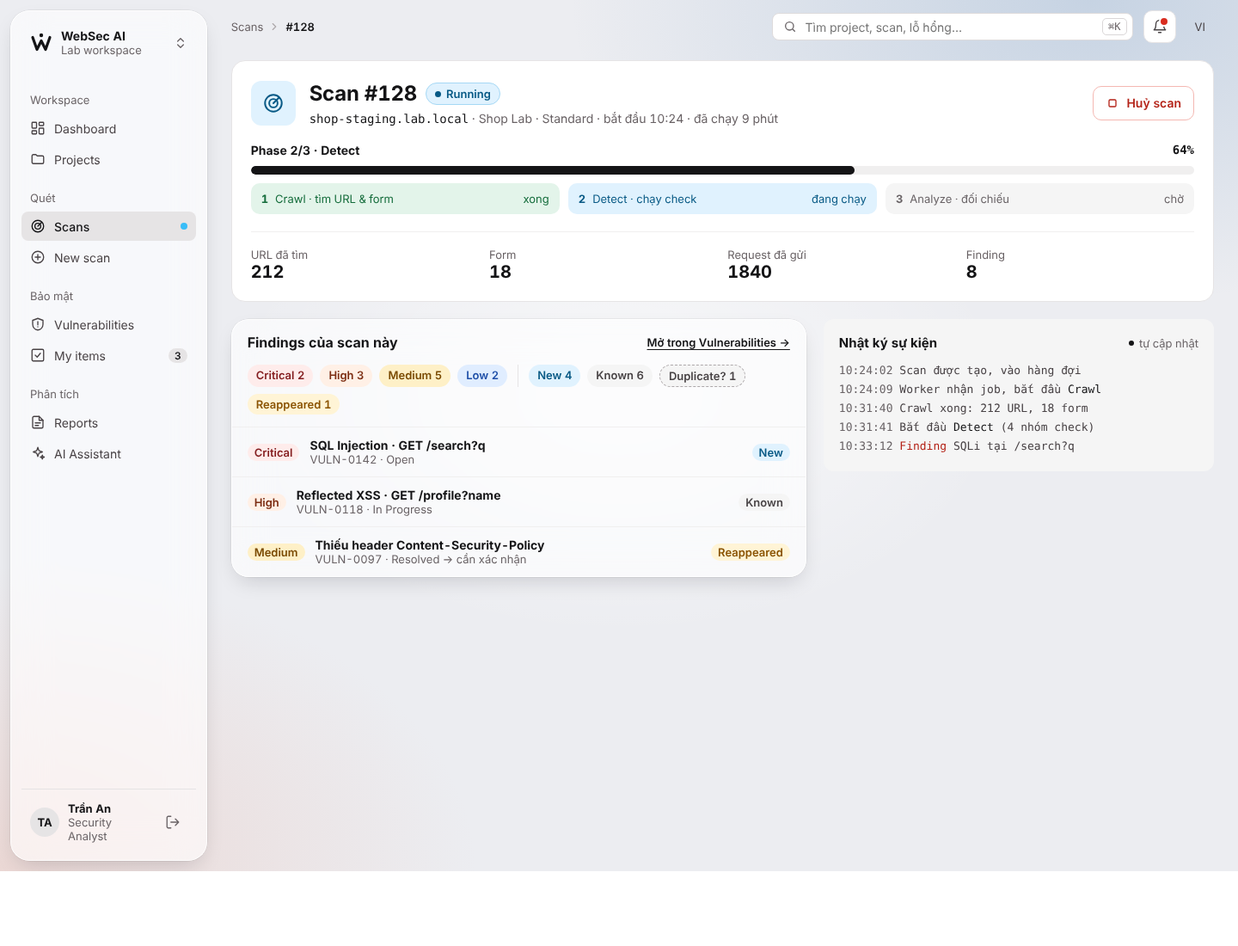
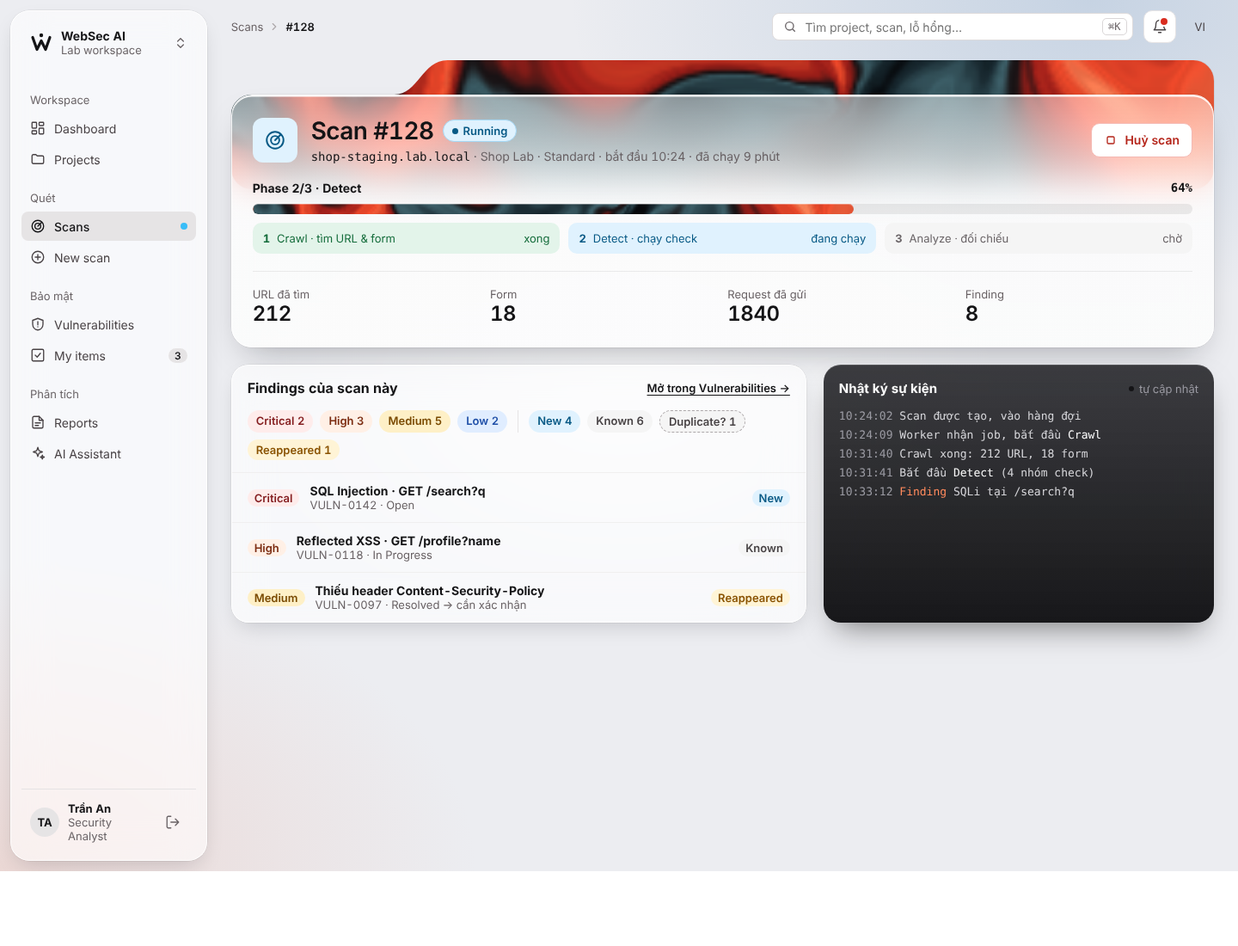
design: Project detail và Scan detail dùng hero thư mục kính với ảnh ember
- Phần đầu W04, W07: tai thư mục + ảnh ember phía sau, mặt kính chứa thông tin.
- W07: thanh tiến độ dùng ảnh ember, nhật ký sự kiện thành kính khói tối.

Claude-Session: https://claude.ai/code/session_01LwojaGAzL5sjq8DHbyiojU

Changed region(s): [[0.1875, 0.0618, 1.0, 0.68]]

diff --git a/design/source/W07-Scan-Detail.dc.html b/design/source/W07-Scan-Detail.dc.html
@@ -44,11 +44,11 @@ body{font-variant-numeric:tabular-nums}
 
 <main style="flex: 1; box-sizing: border-box; margin: 0; background: transparent; padding: 20px 28px 32px; display: flex; flex-direction: column; gap: 20px">
 
-<section style="background: #FFFFFF; border: 1px solid #E6E4E5; border-radius: 16px; padding: 22px; display: flex; flex-direction: column; gap: 20px">
+<div style="position: relative; padding-top: 40px"><div aria-hidden="true" style="position: absolute; left: 0; right: 0; top: 0; height: 150px; border-radius: 24px; overflow: hidden; clip-path: path('M0 64A24 24 0 0 1 24 40L190 40C218 40 222 0 252 0L1400 0L1400 150L0 150Z'); box-shadow: 0 0 0 0.5px rgba(0, 0, 0, 0.1)"><img src="art/ember-41.png" alt="" style="width: 100%; height: 100%; object-fit: cover; display: block"></div><section aria-label="Scan #128" style="position: relative; background: linear-gradient(180deg, rgba(255, 255, 255, 0.5) 0%, rgba(252, 252, 252, 0.9) 45%); -webkit-backdrop-filter: blur(22px) saturate(1.5); backdrop-filter: blur(22px) saturate(1.5); border: 1px solid rgba(255, 255, 255, 0.85); box-shadow: inset 0 1.5px 0 rgba(255, 255, 255, 0.95), 0 0 0 0.5px rgba(0, 0, 0, 0.1), 0 18px 40px -18px rgba(10, 12, 20, 0.35); border-radius: 24px; padding: 24px; display: flex; flex-direction: column; gap: 20px">
 <div style="display: flex; flex-wrap: wrap; align-items: center; gap: 16px">
 <span style="flex: none; width: 52px; height: 52px; border-radius: 12px; background: {{ toneBg }}; color: {{ toneFg }}; display: flex; align-items: center; justify-content: center"><svg aria-hidden="true" width="26" height="26" viewBox="0 0 24 24" fill="none" stroke="currentColor" stroke-width="1.8" stroke-linecap="round" stroke-linejoin="round"><circle cx="12" cy="12" r="9"/><circle cx="12" cy="12" r="4.5"/><path d="M12 12l6-6"/></svg></span>
 <div style="flex: 1 1 300px; min-width: 0; display: flex; flex-direction: column; gap: 4px">
-<div style="display: flex; flex-wrap: wrap; align-items: center; gap: 10px"><h1 style="margin: 0; font-size: 24px; line-height: 32px; letter-spacing: -0.01em">Scan #128</h1><span style="display: inline-flex; align-items: center; gap: 6px; font-size: 13px; font-weight: 600; padding: 4px 10px; background: {{ toneBg }}; color: {{ toneFg }}; border: 1px solid {{ toneBd }}; border-radius: 999px"><span style="width: 7px; height: 7px; border-radius: 4px; background: {{ toneFg }}"></span>{{ statusLabel }}</span></div>
+<div style="display: flex; flex-wrap: wrap; align-items: center; gap: 10px"><h1 style="margin: 0; font-size: 28px; line-height: 34px; font-weight: 600; letter-spacing: -0.02em">Scan #128</h1><span style="display: inline-flex; align-items: center; gap: 6px; font-size: 13px; font-weight: 600; padding: 4px 10px; background: {{ toneBg }}; color: {{ toneFg }}; border: 1px solid {{ toneBd }}; border-radius: 999px"><span style="width: 7px; height: 7px; border-radius: 4px; background: {{ toneFg }}"></span>{{ statusLabel }}</span></div>
 <span style="font-size: 14px; color: #686164"><span style="font-family: ui-monospace, 'SF Mono', SFMono-Regular, Menlo, Consolas, monospace; color: #141416">shop-staging.lab.local</span> · Shop Lab · Standard · {{ timeLine }}</span>
 </div>
 <div style="display: flex; flex-wrap: wrap; gap: 8px">
@@ -60,7 +60,7 @@ body{font-variant-numeric:tabular-nums}
 
 <div style="display: flex; flex-direction: column; gap: 10px">
 <div style="display: flex; justify-content: space-between; font-size: 14px"><b>{{ phaseLabel }}</b><span style="font-family: ui-monospace, 'SF Mono', SFMono-Regular, Menlo, Consolas, monospace; font-weight: 600">{{ progress }}</span></div>
-<div role="progressbar" aria-label="Tiến độ scan" aria-valuenow="{{ progressNum }}" aria-valuemin="0" aria-valuemax="100" style="height: 10px; background: #F0EFEF; border-radius: 5px; overflow: hidden"><div style="height: 10px; width: {{ progress }}; background: {{ barColor }}; border-radius: 5px"></div></div>
+<div role="progressbar" aria-label="Tiến độ scan" aria-valuenow="{{ progressNum }}" aria-valuemin="0" aria-valuemax="100" style="height: 12px; background: rgba(20, 20, 22, 0.08); border-radius: 6px; overflow: hidden"><div style="height: 12px; width: {{ progress }}; background: {{ barColor }}; border-radius: 6px; box-shadow: inset 0 1px 0 rgba(255, 255, 255, 0.35)"></div></div>
 <ol style="margin: 0; padding: 0; list-style: none; display: grid; grid-template-columns: repeat(3, minmax(0, 1fr)); gap: 10px; font-size: 13px">
 <li style="display: flex; align-items: center; gap: 8px; padding: 10px 12px; background: {{ p1.bg }}; color: {{ p1.fg }}; border-radius: 10px"><b>1</b> Crawl · tìm URL &amp; form <span style="margin-left: auto; font-size: 13px">{{ p1.note }}</span></li>
 <li style="display: flex; align-items: center; gap: 8px; padding: 10px 12px; background: {{ p2.bg }}; color: {{ p2.fg }}; border-radius: 10px"><b>2</b> Detect · chạy check <span style="margin-left: auto; font-size: 13px">{{ p2.note }}</span></li>
@@ -68,13 +68,14 @@ body{font-variant-numeric:tabular-nums}
 </ol>
 </div>
 
-<div style="display: grid; grid-template-columns: repeat(auto-fit, minmax(160px, 1fr)); gap: 12px; padding-top: 18px; border-top: 1px solid #F0EFEF">
-<div style="display: flex; align-items: center; gap: 12px"><span style="display: flex; flex-direction: column"><span style="font-size: 13px; color: #686164">URL đã tìm</span><b style="font-size: 20px">{{ urls }}</b></span></div>
-<div style="display: flex; align-items: center; gap: 12px"><span style="display: flex; flex-direction: column"><span style="font-size: 13px; color: #686164">Form</span><b style="font-size: 20px">{{ forms }}</b></span></div>
-<div style="display: flex; align-items: center; gap: 12px"><span style="display: flex; flex-direction: column"><span style="font-size: 13px; color: #686164">Request đã gửi</span><b style="font-size: 20px">{{ reqs }}</b></span></div>
-<div style="display: flex; align-items: center; gap: 12px"><span style="display: flex; flex-direction: column"><span style="font-size: 13px; color: #686164">Finding</span><b style="font-size: 20px">{{ findings }}</b></span></div>
+<div style="display: grid; grid-template-columns: repeat(auto-fit, minmax(160px, 1fr)); gap: 12px; padding-top: 18px; border-top: 1px solid rgba(20, 20, 22, 0.08)">
+<div style="display: flex; align-items: center; gap: 12px"><span style="display: flex; flex-direction: column"><span style="font-size: 13px; color: #686164">URL đã tìm</span><b style="font-size: 24px; font-weight: 600; letter-spacing: -0.02em">{{ urls }}</b></span></div>
+<div style="display: flex; align-items: center; gap: 12px"><span style="display: flex; flex-direction: column"><span style="font-size: 13px; color: #686164">Form</span><b style="font-size: 24px; font-weight: 600; letter-spacing: -0.02em">{{ forms }}</b></span></div>
+<div style="display: flex; align-items: center; gap: 12px"><span style="display: flex; flex-direction: column"><span style="font-size: 13px; color: #686164">Request đã gửi</span><b style="font-size: 24px; font-weight: 600; letter-spacing: -0.02em">{{ reqs }}</b></span></div>
+<div style="display: flex; align-items: center; gap: 12px"><span style="display: flex; flex-direction: column"><span style="font-size: 13px; color: #686164">Finding</span><b style="font-size: 24px; font-weight: 600; letter-spacing: -0.02em">{{ findings }}</b></span></div>
 </div>
 </section>
+</div>
 
 <sc-if value="{{ isQueued }}" hint-placeholder-val="{{ false }}">
 <div style="display: flex; align-items: center; gap: 14px; padding: 18px; background: #FFFFFF; border: 1px dashed #A5D8F5; border-radius: 12px; font-size: 14px; line-height: 21px"><span style="flex: none; width: 40px; height: 40px; border-radius: 20px; background: #E0F2FE; color: #075985; display: flex; align-items: center; justify-content: center"><svg aria-hidden="true" width="20" height="20" viewBox="0 0 24 24" fill="none" stroke="currentColor" stroke-width="1.8" stroke-linecap="round"><circle cx="12" cy="12" r="9"/><path d="M12 7v5l3 2"/></svg></span><span><b>Đang chờ worker.</b> Vị trí 1 trong hàng đợi. Trang tự cập nhật mỗi 5 giây; bạn có thể rời trang, scan vẫn chạy.</span></div>
@@ -111,14 +112,14 @@ body{font-variant-numeric:tabular-nums}
 </section>
 </sc-if>
 
-<section aria-label="Sự kiện" style="flex: 2 1 320px; min-width: 0; background: #F5F5F5; color: #484245; border-radius: 12px; padding: 18px; display: flex; flex-direction: column; gap: 12px">
-<div style="display: flex; justify-content: space-between; align-items: center"><h2 style="margin: 0; font-size: 15px; color: #141416">Nhật ký sự kiện</h2><span style="display: inline-flex; align-items: center; gap: 6px; font-size: 13px; color: #696366"><span style="width: 6px; height: 6px; border-radius: 3px; background: #141416"></span>tự cập nhật</span></div>
+<section aria-label="Sự kiện" style="flex: 2 1 320px; min-width: 0; align-self: stretch; background: linear-gradient(180deg, rgba(30, 30, 34, 0.86) 0%, rgba(10, 10, 12, 0.94) 100%); -webkit-backdrop-filter: blur(22px) saturate(1.5); backdrop-filter: blur(22px) saturate(1.5); color: #D4D4D8; border-radius: 20px; box-shadow: inset 0 1px 0 rgba(255, 255, 255, 0.14), 0 0 0 0.5px rgba(255, 255, 255, 0.08), 0 18px 36px -14px rgba(0, 0, 0, 0.5); padding: 18px; display: flex; flex-direction: column; gap: 12px">
+<div style="display: flex; justify-content: space-between; align-items: center"><h2 style="margin: 0; font-size: 15px; color: #FAFAFA">Nhật ký sự kiện</h2><span style="display: inline-flex; align-items: center; gap: 6px; font-size: 13px; color: #9A9AA2"><span style="width: 6px; height: 6px; border-radius: 3px; background: #141416"></span>tự cập nhật</span></div>
 <div style="font-family: ui-monospace, 'SF Mono', SFMono-Regular, Menlo, Consolas, monospace; font-size: 13px; line-height: 22px">
-<div><span style="color: #696366">10:24:02</span> Scan được tạo, vào hàng đợi</div>
-<div><span style="color: #696366">10:24:09</span> Worker nhận job, bắt đầu <span style="color: #141416">Crawl</span></div>
-<div><span style="color: #696366">10:31:40</span> Crawl xong: 212 URL, 18 form</div>
-<div><span style="color: #696366">10:31:41</span> Bắt đầu <span style="color: #141416">Detect</span> (4 nhóm check)</div>
-<div><span style="color: #696366">10:33:12</span> <span style="color: #B42318">Finding</span> SQLi tại /search?q</div>
+<div><span style="color: #9A9AA2">10:24:02</span> Scan được tạo, vào hàng đợi</div>
+<div><span style="color: #9A9AA2">10:24:09</span> Worker nhận job, bắt đầu <span style="color: #FAFAFA">Crawl</span></div>
+<div><span style="color: #9A9AA2">10:31:40</span> Crawl xong: 212 URL, 18 form</div>
+<div><span style="color: #9A9AA2">10:31:41</span> Bắt đầu <span style="color: #FAFAFA">Detect</span> (4 nhóm check)</div>
+<div><span style="color: #9A9AA2">10:33:12</span> <span style="color: #FF8A5C">Finding</span> SQLi tại /search?q</div>
 </div>
 </section>
 </div>
@@ -164,7 +165,7 @@ wait: { bg: '#F5F5F5', fg: '#696366', note: 'chờ' }
 }[k]);
 return {
 toneBg: t[0], toneFg: t[1], toneBd: t[2],
-barColor: s === 'failed' ? '#D92D20' : (s === 'cancelled' ? '#98A2B3' : '#141416'),
+barColor: s === 'failed' ? '#D92D20' : (s === 'cancelled' ? '#98A2B3' : 'url(art/ember-41.png) center / cover'),
 p1: phase(data.ph[0]), p2: phase(data.ph[1]), p3: phase(data.ph[2]),
 statusLabel: data.label, phaseLabel: data.phase, progress: data.p + '%', progressNum: data.p, timeLine: data.time,
 urls: data.u, forms: data.f, reqs: data.r, findings: data.n,

diff --git a/design/screens/W07-Scan-Detail.html b/design/screens/W07-Scan-Detail.html
@@ -36,11 +36,11 @@ body{font-variant-numeric:tabular-nums}
 
 <main style="flex: 1; box-sizing: border-box; margin: 0; background: transparent; padding: 20px 28px 32px; display: flex; flex-direction: column; gap: 20px">
 
-<section style="background: #FFFFFF; border: 1px solid #E6E4E5; border-radius: 16px; padding: 22px; display: flex; flex-direction: column; gap: 20px">
+<div style="position: relative; padding-top: 40px"><div aria-hidden="true" style="position: absolute; left: 0; right: 0; top: 0; height: 150px; border-radius: 24px; overflow: hidden; clip-path: path('M0 64A24 24 0 0 1 24 40L190 40C218 40 222 0 252 0L1400 0L1400 150L0 150Z'); box-shadow: 0 0 0 0.5px rgba(0, 0, 0, 0.1)"><img src="art/ember-41.png" alt="" style="width: 100%; height: 100%; object-fit: cover; display: block"></div><section aria-label="Scan #128" style="position: relative; background: linear-gradient(180deg, rgba(255, 255, 255, 0.5) 0%, rgba(252, 252, 252, 0.9) 45%); -webkit-backdrop-filter: blur(22px) saturate(1.5); backdrop-filter: blur(22px) saturate(1.5); border: 1px solid rgba(255, 255, 255, 0.85); box-shadow: inset 0 1.5px 0 rgba(255, 255, 255, 0.95), 0 0 0 0.5px rgba(0, 0, 0, 0.1), 0 18px 40px -18px rgba(10, 12, 20, 0.35); border-radius: 24px; padding: 24px; display: flex; flex-direction: column; gap: 20px">
 <div style="display: flex; flex-wrap: wrap; align-items: center; gap: 16px">
 <span style="flex: none; width: 52px; height: 52px; border-radius: 12px; background: #E0F2FE; color: #075985; display: flex; align-items: center; justify-content: center"><svg aria-hidden="true" width="26" height="26" viewBox="0 0 24 24" fill="none" stroke="currentColor" stroke-width="1.8" stroke-linecap="round" stroke-linejoin="round"><circle cx="12" cy="12" r="9"/><circle cx="12" cy="12" r="4.5"/><path d="M12 12l6-6"/></svg></span>
 <div style="flex: 1 1 300px; min-width: 0; display: flex; flex-direction: column; gap: 4px">
-<div style="display: flex; flex-wrap: wrap; align-items: center; gap: 10px"><h1 style="margin: 0; font-size: 24px; line-height: 32px; letter-spacing: -0.01em">Scan #128</h1><span style="display: inline-flex; align-items: center; gap: 6px; font-size: 13px; font-weight: 600; padding: 4px 10px; background: #E0F2FE; color: #075985; border: 1px solid #A5D8F5; border-radius: 999px"><span style="width: 7px; height: 7px; border-radius: 4px; background: #075985"></span>Running</span></div>
+<div style="display: flex; flex-wrap: wrap; align-items: center; gap: 10px"><h1 style="margin: 0; font-size: 28px; line-height: 34px; font-weight: 600; letter-spacing: -0.02em">Scan #128</h1><span style="display: inline-flex; align-items: center; gap: 6px; font-size: 13px; font-weight: 600; padding: 4px 10px; background: #E0F2FE; color: #075985; border: 1px solid #A5D8F5; border-radius: 999px"><span style="width: 7px; height: 7px; border-radius: 4px; background: #075985"></span>Running</span></div>
 <span style="font-size: 14px; color: #686164"><span style="font-family: ui-monospace, 'SF Mono', SFMono-Regular, Menlo, Consolas, monospace; color: #141416">shop-staging.lab.local</span> · Shop Lab · Standard · bắt đầu 10:24 · đã chạy 9 phút</span>
 </div>
 <div style="display: flex; flex-wrap: wrap; gap: 8px">
@@ -52,7 +52,7 @@ body{font-variant-numeric:tabular-nums}
 
 <div style="display: flex; flex-direction: column; gap: 10px">
 <div style="display: flex; justify-content: space-between; font-size: 14px"><b>Phase 2/3 · Detect</b><span style="font-family: ui-monospace, 'SF Mono', SFMono-Regular, Menlo, Consolas, monospace; font-weight: 600">64%</span></div>
-<div role="progressbar" aria-label="Tiến độ scan" aria-valuenow="64" aria-valuemin="0" aria-valuemax="100" style="height: 10px; background: #F0EFEF; border-radius: 5px; overflow: hidden"><div style="height: 10px; width: 64%; background: #141416; border-radius: 5px"></div></div>
+<div role="progressbar" aria-label="Tiến độ scan" aria-valuenow="64" aria-valuemin="0" aria-valuemax="100" style="height: 12px; background: rgba(20, 20, 22, 0.08); border-radius: 6px; overflow: hidden"><div style="height: 12px; width: 64%; background: url(art/ember-41.png) center / cover; border-radius: 6px; box-shadow: inset 0 1px 0 rgba(255, 255, 255, 0.35)"></div></div>
 <ol style="margin: 0; padding: 0; list-style: none; display: grid; grid-template-columns: repeat(3, minmax(0, 1fr)); gap: 10px; font-size: 13px">
 <li style="display: flex; align-items: center; gap: 8px; padding: 10px 12px; background: #E3F4EA; color: #146C3B; border-radius: 10px"><b>1</b> Crawl · tìm URL &amp; form <span style="margin-left: auto; font-size: 13px">xong</span></li>
 <li style="display: flex; align-items: center; gap: 8px; padding: 10px 12px; background: #E0F2FE; color: #075985; border-radius: 10px"><b>2</b> Detect · chạy check <span style="margin-left: auto; font-size: 13px">đang chạy</span></li>
@@ -60,13 +60,14 @@ body{font-variant-numeric:tabular-nums}
 </ol>
 </div>
 
-<div style="display: grid; grid-template-columns: repeat(auto-fit, minmax(160px, 1fr)); gap: 12px; padding-top: 18px; border-top: 1px solid #F0EFEF">
-<div style="display: flex; align-items: center; gap: 12px"><span style="display: flex; flex-direction: column"><span style="font-size: 13px; color: #686164">URL đã tìm</span><b style="font-size: 20px">212</b></span></div>
-<div style="display: flex; align-items: center; gap: 12px"><span style="display: flex; flex-direction: column"><span style="font-size: 13px; color: #686164">Form</span><b style="font-size: 20px">18</b></span></div>
-<div style="display: flex; align-items: center; gap: 12px"><span style="display: flex; flex-direction: column"><span style="font-size: 13px; color: #686164">Request đã gửi</span><b style="font-size: 20px">1840</b></span></div>
-<div style="display: flex; align-items: center; gap: 12px"><span style="display: flex; flex-direction: column"><span style="font-size: 13px; color: #686164">Finding</span><b style="font-size: 20px">8</b></span></div>
+<div style="display: grid; grid-template-columns: repeat(auto-fit, minmax(160px, 1fr)); gap: 12px; padding-top: 18px; border-top: 1px solid rgba(20, 20, 22, 0.08)">
+<div style="display: flex; align-items: center; gap: 12px"><span style="display: flex; flex-direction: column"><span style="font-size: 13px; color: #686164">URL đã tìm</span><b style="font-size: 24px; font-weight: 600; letter-spacing: -0.02em">212</b></span></div>
+<div style="display: flex; align-items: center; gap: 12px"><span style="display: flex; flex-direction: column"><span style="font-size: 13px; color: #686164">Form</span><b style="font-size: 24px; font-weight: 600; letter-spacing: -0.02em">18</b></span></div>
+<div style="display: flex; align-items: center; gap: 12px"><span style="display: flex; flex-direction: column"><span style="font-size: 13px; color: #686164">Request đã gửi</span><b style="font-size: 24px; font-weight: 600; letter-spacing: -0.02em">1840</b></span></div>
+<div style="display: flex; align-items: center; gap: 12px"><span style="display: flex; flex-direction: column"><span style="font-size: 13px; color: #686164">Finding</span><b style="font-size: 24px; font-weight: 600; letter-spacing: -0.02em">8</b></span></div>
 </div>
 </section>
+</div>
 
 
 
@@ -91,14 +92,14 @@ body{font-variant-numeric:tabular-nums}
 </section>
 
 
-<section aria-label="Sự kiện" style="flex: 2 1 320px; min-width: 0; background: #F5F5F5; color: #484245; border-radius: 12px; padding: 18px; display: flex; flex-direction: column; gap: 12px">
-<div style="display: flex; justify-content: space-between; align-items: center"><h2 style="margin: 0; font-size: 15px; color: #141416">Nhật ký sự kiện</h2><span style="display: inline-flex; align-items: center; gap: 6px; font-size: 13px; color: #696366"><span style="width: 6px; height: 6px; border-radius: 3px; background: #141416"></span>tự cập nhật</span></div>
+<section aria-label="Sự kiện" style="flex: 2 1 320px; min-width: 0; align-self: stretch; background: linear-gradient(180deg, rgba(30, 30, 34, 0.86) 0%, rgba(10, 10, 12, 0.94) 100%); -webkit-backdrop-filter: blur(22px) saturate(1.5); backdrop-filter: blur(22px) saturate(1.5); color: #D4D4D8; border-radius: 20px; box-shadow: inset 0 1px 0 rgba(255, 255, 255, 0.14), 0 0 0 0.5px rgba(255, 255, 255, 0.08), 0 18px 36px -14px rgba(0, 0, 0, 0.5); padding: 18px; display: flex; flex-direction: column; gap: 12px">
+<div style="display: flex; justify-content: space-between; align-items: center"><h2 style="margin: 0; font-size: 15px; color: #FAFAFA">Nhật ký sự kiện</h2><span style="display: inline-flex; align-items: center; gap: 6px; font-size: 13px; color: #9A9AA2"><span style="width: 6px; height: 6px; border-radius: 3px; background: #141416"></span>tự cập nhật</span></div>
 <div style="font-family: ui-monospace, 'SF Mono', SFMono-Regular, Menlo, Consolas, monospace; font-size: 13px; line-height: 22px">
-<div><span style="color: #696366">10:24:02</span> Scan được tạo, vào hàng đợi</div>
-<div><span style="color: #696366">10:24:09</span> Worker nhận job, bắt đầu <span style="color: #141416">Crawl</span></div>
-<div><span style="color: #696366">10:31:40</span> Crawl xong: 212 URL, 18 form</div>
-<div><span style="color: #696366">10:31:41</span> Bắt đầu <span style="color: #141416">Detect</span> (4 nhóm check)</div>
-<div><span style="color: #696366">10:33:12</span> <span style="color: #B42318">Finding</span> SQLi tại /search?q</div>
+<div><span style="color: #9A9AA2">10:24:02</span> Scan được tạo, vào hàng đợi</div>
+<div><span style="color: #9A9AA2">10:24:09</span> Worker nhận job, bắt đầu <span style="color: #FAFAFA">Crawl</span></div>
+<div><span style="color: #9A9AA2">10:31:40</span> Crawl xong: 212 URL, 18 form</div>
+<div><span style="color: #9A9AA2">10:31:41</span> Bắt đầu <span style="color: #FAFAFA">Detect</span> (4 nhóm check)</div>
+<div><span style="color: #9A9AA2">10:33:12</span> <span style="color: #FF8A5C">Finding</span> SQLi tại /search?q</div>
 </div>
 </section>
 </div>

diff --git a/design/source/W04-Project-Detail.dc.html b/design/source/W04-Project-Detail.dc.html
@@ -44,10 +44,10 @@ body{font-variant-numeric:tabular-nums}
 
 <main style="flex: 1; box-sizing: border-box; margin: 0; background: transparent; padding: 20px 28px 32px; display: flex; flex-direction: column; gap: 20px">
 
-<section style="background: #FFFFFF; border: 1px solid #E6E4E5; border-radius: 16px; padding: 22px; display: flex; flex-wrap: wrap; align-items: center; gap: 20px">
-<span style="flex: none; width: 56px; height: 56px; border-radius: 12px; background: #EFEFF2; color: #3A1A18; display: flex; align-items: center; justify-content: center; font-weight: 700; font-size: 20px">SL</span>
+<div style="position: relative; padding-top: 40px"><div aria-hidden="true" style="position: absolute; left: 0; right: 0; top: 0; height: 150px; border-radius: 24px; overflow: hidden; clip-path: path('M0 64A24 24 0 0 1 24 40L190 40C218 40 222 0 252 0L1400 0L1400 150L0 150Z'); box-shadow: 0 0 0 0.5px rgba(0, 0, 0, 0.1)"><img src="art/ember-11.png" alt="" style="width: 100%; height: 100%; object-fit: cover; display: block"></div><section aria-label="Project Shop Lab" style="position: relative; background: linear-gradient(180deg, rgba(255, 255, 255, 0.5) 0%, rgba(252, 252, 252, 0.9) 45%); -webkit-backdrop-filter: blur(22px) saturate(1.5); backdrop-filter: blur(22px) saturate(1.5); border: 1px solid rgba(255, 255, 255, 0.85); box-shadow: inset 0 1.5px 0 rgba(255, 255, 255, 0.95), 0 0 0 0.5px rgba(0, 0, 0, 0.1), 0 18px 40px -18px rgba(10, 12, 20, 0.35); border-radius: 24px; padding: 24px; display: flex; flex-wrap: wrap; align-items: center; gap: 20px">
+<span style="flex: none; width: 56px; height: 56px; border-radius: 16px; background: #141416; color: #FFFFFF; display: flex; align-items: center; justify-content: center; font-weight: 700; font-size: 20px">SL</span>
 <div style="flex: 1 1 320px; min-width: 0; display: flex; flex-direction: column; gap: 6px">
-<div style="display: flex; flex-wrap: wrap; align-items: center; gap: 10px"><h1 style="margin: 0; font-size: 24px; line-height: 32px; letter-spacing: -0.01em">Shop Lab</h1><span style="font-family: ui-monospace, 'SF Mono', SFMono-Regular, Menlo, Consolas, monospace; font-size: 12px; padding: 2px 8px; background: #F5F5F5; border-radius: 6px; color: #484345">SHOP</span><span style="display: inline-flex; align-items: center; gap: 6px; font-size: 12px; font-weight: 600; padding: 3px 10px; background: #E3F4EA; color: #146C3B; border-radius: 999px"><span style="width: 6px; height: 6px; border-radius: 3px; background: #16A34A"></span>Active</span></div>
+<div style="display: flex; flex-wrap: wrap; align-items: center; gap: 10px"><h1 style="margin: 0; font-size: 28px; line-height: 34px; font-weight: 600; letter-spacing: -0.02em">Shop Lab</h1><span style="font-family: ui-monospace, 'SF Mono', SFMono-Regular, Menlo, Consolas, monospace; font-size: 12px; padding: 2px 8px; background: #F5F5F5; border-radius: 6px; color: #484345">SHOP</span><span style="display: inline-flex; align-items: center; gap: 6px; font-size: 12px; font-weight: 600; padding: 3px 10px; background: #E3F4EA; color: #146C3B; border-radius: 999px"><span style="width: 6px; height: 6px; border-radius: 3px; background: #16A34A"></span>Active</span></div>
 <p style="margin: 0; font-size: 14px; line-height: 21px; color: #686164">Website bán hàng demo của nhóm · Staging · Owner <b style="color: #141416">Trần An</b> · tạo 01/10/2026</p>
 </div>
 <span role="img" aria-label="Điểm rủi ro 81, mức cao" style="position: relative; flex: none; width: 64px; height: 64px; display: flex; align-items: center; justify-content: center"><svg aria-hidden="true" width="64" height="64" viewBox="0 0 36 36" style="position: absolute; inset: 0; transform: rotate(-90deg)"><circle cx="18" cy="18" r="16.5" fill="none" stroke="#EBEAEA" stroke-width="3"/><circle cx="18" cy="18" r="16.5" fill="none" stroke="#C2410C" stroke-width="3" pathLength="100" stroke-dasharray="81 100"/></svg><span style="position: relative; width: 52px; height: 52px; border-radius: 26px; background: #FFFFFF; display: flex; flex-direction: column; align-items: center; justify-content: center; line-height: 1"><b style="font-size: 18px; color: #9A3412">81</b><span style="font-size: 9px; color: #686164; margin-top: 2px">rủi ro</span></span></span>
@@ -55,13 +55,14 @@ body{font-variant-numeric:tabular-nums}
 <button type="button" style="display: inline-flex; align-items: center; gap: 8px; min-height: 40px; padding: 0 14px; border: 1px solid #DAD7D8; border-radius: 10px; background: #FFFFFF; font: inherit; font-size: 14px"><svg aria-hidden="true" width="16" height="16" viewBox="0 0 24 24" fill="none" stroke="currentColor" stroke-width="1.8" stroke-linecap="round" stroke-linejoin="round"><path d="M4 20h4L19 9l-4-4L4 16z"/></svg>Sửa</button>
 <a href="W06-Scan-Wizard.dc.html" style="display: inline-flex; align-items: center; gap: 8px; min-height: 40px; padding: 0 16px; background: radial-gradient(120% 90% at 50% 0%, #3a3a3f 0%, #121214 55%, #050506 100%); color: #FFFFFF; box-shadow: inset 0 1px 0 rgba(255, 255, 255, 0.22), inset 0 -3px 8px rgba(0, 0, 0, 0.7), 0 0 0 1px rgba(0, 0, 0, 0.75), 0 10px 18px -8px rgba(0, 0, 0, 0.5); border-radius: 10px; text-decoration: none; font-size: 14px; font-weight: 600"><svg aria-hidden="true" width="16" height="16" viewBox="0 0 24 24" fill="none" stroke="currentColor" stroke-width="2" stroke-linecap="round" stroke-linejoin="round"><path d="M7 4l12 8-12 8z"/></svg>Chạy scan</a>
 </div>
-<div style="flex: 1 1 100%; display: grid; grid-template-columns: repeat(auto-fit, minmax(160px, 1fr)); gap: 12px; padding-top: 18px; border-top: 1px solid #F0EFEF">
-<div style="display: flex; align-items: center; gap: 12px"><span style="display: flex; flex-direction: column"><span style="font-size: 12px; color: #686164">Targets</span><b style="font-size: 18px">2 <span style="font-size: 12px; font-weight: 500; color: #8A5300">· 1 chưa xác nhận</span></b></span></div>
-<div style="display: flex; align-items: center; gap: 12px"><span style="display: flex; flex-direction: column"><span style="font-size: 12px; color: #686164">Lỗ hổng mở</span><b style="font-size: 18px">21 <span style="font-size: 12px; font-weight: 500; color: #B42318">· 3 Critical</span></b></span></div>
-<div style="display: flex; align-items: center; gap: 12px"><span style="display: flex; flex-direction: column"><span style="font-size: 12px; color: #686164">Scan gần nhất</span><b style="font-size: 18px">Hôm nay <span style="font-size: 12px; font-weight: 500; color: #075985">· đang chạy</span></b></span></div>
-<div style="display: flex; align-items: center; gap: 12px"><span style="display: flex; flex-direction: column"><span style="font-size: 12px; color: #686164">Resolved 30 ngày</span><b style="font-size: 18px">6</b></span></div>
+<div style="flex: 1 1 100%; display: grid; grid-template-columns: repeat(auto-fit, minmax(160px, 1fr)); gap: 12px; padding-top: 18px; border-top: 1px solid rgba(20, 20, 22, 0.08)">
+<div style="display: flex; align-items: center; gap: 12px"><span style="display: flex; flex-direction: column"><span style="font-size: 12px; color: #686164">Targets</span><b style="font-size: 22px; font-weight: 600; letter-spacing: -0.02em">2 <span style="font-size: 12px; font-weight: 500; color: #8A5300">· 1 chưa xác nhận</span></b></span></div>
+<div style="display: flex; align-items: center; gap: 12px"><span style="display: flex; flex-direction: column"><span style="font-size: 12px; color: #686164">Lỗ hổng mở</span><b style="font-size: 22px; font-weight: 600; letter-spacing: -0.02em">21 <span style="font-size: 12px; font-weight: 500; color: #B42318">· 3 Critical</span></b></span></div>
+<div style="display: flex; align-items: center; gap: 12px"><span style="display: flex; flex-direction: column"><span style="font-size: 12px; color: #686164">Scan gần nhất</span><b style="font-size: 22px; font-weight: 600; letter-spacing: -0.02em">Hôm nay <span style="font-size: 12px; font-weight: 500; color: #075985">· đang chạy</span></b></span></div>
+<div style="display: flex; align-items: center; gap: 12px"><span style="display: flex; flex-direction: column"><span style="font-size: 12px; color: #686164">Resolved 30 ngày</span><b style="font-size: 22px; font-weight: 600; letter-spacing: -0.02em">6</b></span></div>
 </div>
 </section>
+</div>
 
 <div role="tablist" aria-label="Nội dung project" style="display: flex; flex-wrap: wrap; gap: 4px; border-bottom: 1px solid #E6E4E5">
 <button type="button" role="tab" aria-selected="false" style="min-height: 42px; padding: 0 14px; border: none; background: none; font: inherit; font-size: 14px; color: #686164">Tổng quan</button>

diff --git a/design/screens/W04-Project-Detail.html b/design/screens/W04-Project-Detail.html
@@ -36,10 +36,10 @@ body{font-variant-numeric:tabular-nums}
 
 <main style="flex: 1; box-sizing: border-box; margin: 0; background: transparent; padding: 20px 28px 32px; display: flex; flex-direction: column; gap: 20px">
 
-<section style="background: #FFFFFF; border: 1px solid #E6E4E5; border-radius: 16px; padding: 22px; display: flex; flex-wrap: wrap; align-items: center; gap: 20px">
-<span style="flex: none; width: 56px; height: 56px; border-radius: 12px; background: #EFEFF2; color: #3A1A18; display: flex; align-items: center; justify-content: center; font-weight: 700; font-size: 20px">SL</span>
+<div style="position: relative; padding-top: 40px"><div aria-hidden="true" style="position: absolute; left: 0; right: 0; top: 0; height: 150px; border-radius: 24px; overflow: hidden; clip-path: path('M0 64A24 24 0 0 1 24 40L190 40C218 40 222 0 252 0L1400 0L1400 150L0 150Z'); box-shadow: 0 0 0 0.5px rgba(0, 0, 0, 0.1)"><img src="art/ember-11.png" alt="" style="width: 100%; height: 100%; object-fit: cover; display: block"></div><section aria-label="Project Shop Lab" style="position: relative; background: linear-gradient(180deg, rgba(255, 255, 255, 0.5) 0%, rgba(252, 252, 252, 0.9) 45%); -webkit-backdrop-filter: blur(22px) saturate(1.5); backdrop-filter: blur(22px) saturate(1.5); border: 1px solid rgba(255, 255, 255, 0.85); box-shadow: inset 0 1.5px 0 rgba(255, 255, 255, 0.95), 0 0 0 0.5px rgba(0, 0, 0, 0.1), 0 18px 40px -18px rgba(10, 12, 20, 0.35); border-radius: 24px; padding: 24px; display: flex; flex-wrap: wrap; align-items: center; gap: 20px">
+<span style="flex: none; width: 56px; height: 56px; border-radius: 16px; background: #141416; color: #FFFFFF; display: flex; align-items: center; justify-content: center; font-weight: 700; font-size: 20px">SL</span>
 <div style="flex: 1 1 320px; min-width: 0; display: flex; flex-direction: column; gap: 6px">
-<div style="display: flex; flex-wrap: wrap; align-items: center; gap: 10px"><h1 style="margin: 0; font-size: 24px; line-height: 32px; letter-spacing: -0.01em">Shop Lab</h1><span style="font-family: ui-monospace, 'SF Mono', SFMono-Regular, Menlo, Consolas, monospace; font-size: 12px; padding: 2px 8px; background: #F5F5F5; border-radius: 6px; color: #484345">SHOP</span><span style="display: inline-flex; align-items: center; gap: 6px; font-size: 12px; font-weight: 600; padding: 3px 10px; background: #E3F4EA; color: #146C3B; border-radius: 999px"><span style="width: 6px; height: 6px; border-radius: 3px; background: #16A34A"></span>Active</span></div>
+<div style="display: flex; flex-wrap: wrap; align-items: center; gap: 10px"><h1 style="margin: 0; font-size: 28px; line-height: 34px; font-weight: 600; letter-spacing: -0.02em">Shop Lab</h1><span style="font-family: ui-monospace, 'SF Mono', SFMono-Regular, Menlo, Consolas, monospace; font-size: 12px; padding: 2px 8px; background: #F5F5F5; border-radius: 6px; color: #484345">SHOP</span><span style="display: inline-flex; align-items: center; gap: 6px; font-size: 12px; font-weight: 600; padding: 3px 10px; background: #E3F4EA; color: #146C3B; border-radius: 999px"><span style="width: 6px; height: 6px; border-radius: 3px; background: #16A34A"></span>Active</span></div>
 <p style="margin: 0; font-size: 14px; line-height: 21px; color: #686164">Website bán hàng demo của nhóm · Staging · Owner <b style="color: #141416">Trần An</b> · tạo 01/10/2026</p>
 </div>
 <span role="img" aria-label="Điểm rủi ro 81, mức cao" style="position: relative; flex: none; width: 64px; height: 64px; display: flex; align-items: center; justify-content: center"><svg aria-hidden="true" width="64" height="64" viewBox="0 0 36 36" style="position: absolute; inset: 0; transform: rotate(-90deg)"><circle cx="18" cy="18" r="16.5" fill="none" stroke="#EBEAEA" stroke-width="3"/><circle cx="18" cy="18" r="16.5" fill="none" stroke="#C2410C" stroke-width="3" pathLength="100" stroke-dasharray="81 100"/></svg><span style="position: relative; width: 52px; height: 52px; border-radius: 26px; background: #FFFFFF; display: flex; flex-direction: column; align-items: center; justify-content: center; line-height: 1"><b style="font-size: 18px; color: #9A3412">81</b><span style="font-size: 9px; color: #686164; margin-top: 2px">rủi ro</span></span></span>
@@ -47,13 +47,14 @@ body{font-variant-numeric:tabular-nums}
 <button type="button" style="display: inline-flex; align-items: center; gap: 8px; min-height: 40px; padding: 0 14px; border: 1px solid #DAD7D8; border-radius: 10px; background: #FFFFFF; font: inherit; font-size: 14px"><svg aria-hidden="true" width="16" height="16" viewBox="0 0 24 24" fill="none" stroke="currentColor" stroke-width="1.8" stroke-linecap="round" stroke-linejoin="round"><path d="M4 20h4L19 9l-4-4L4 16z"/></svg>Sửa</button>
 <a href="W06-Scan-Wizard.html" style="display: inline-flex; align-items: center; gap: 8px; min-height: 40px; padding: 0 16px; background: radial-gradient(120% 90% at 50% 0%, #3a3a3f 0%, #121214 55%, #050506 100%); color: #FFFFFF; box-shadow: inset 0 1px 0 rgba(255, 255, 255, 0.22), inset 0 -3px 8px rgba(0, 0, 0, 0.7), 0 0 0 1px rgba(0, 0, 0, 0.75), 0 10px 18px -8px rgba(0, 0, 0, 0.5); border-radius: 10px; text-decoration: none; font-size: 14px; font-weight: 600"><svg aria-hidden="true" width="16" height="16" viewBox="0 0 24 24" fill="none" stroke="currentColor" stroke-width="2" stroke-linecap="round" stroke-linejoin="round"><path d="M7 4l12 8-12 8z"/></svg>Chạy scan</a>
 </div>
-<div style="flex: 1 1 100%; display: grid; grid-template-columns: repeat(auto-fit, minmax(160px, 1fr)); gap: 12px; padding-top: 18px; border-top: 1px solid #F0EFEF">
-<div style="display: flex; align-items: center; gap: 12px"><span style="display: flex; flex-direction: column"><span style="font-size: 12px; color: #686164">Targets</span><b style="font-size: 18px">2 <span style="font-size: 12px; font-weight: 500; color: #8A5300">· 1 chưa xác nhận</span></b></span></div>
-<div style="display: flex; align-items: center; gap: 12px"><span style="display: flex; flex-direction: column"><span style="font-size: 12px; color: #686164">Lỗ hổng mở</span><b style="font-size: 18px">21 <span style="font-size: 12px; font-weight: 500; color: #B42318">· 3 Critical</span></b></span></div>
-<div style="display: flex; align-items: center; gap: 12px"><span style="display: flex; flex-direction: column"><span style="font-size: 12px; color: #686164">Scan gần nhất</span><b style="font-size: 18px">Hôm nay <span style="font-size: 12px; font-weight: 500; color: #075985">· đang chạy</span></b></span></div>
-<div style="display: flex; align-items: center; gap: 12px"><span style="display: flex; flex-direction: column"><span style="font-size: 12px; color: #686164">Resolved 30 ngày</span><b style="font-size: 18px">6</b></span></div>
+<div style="flex: 1 1 100%; display: grid; grid-template-columns: repeat(auto-fit, minmax(160px, 1fr)); gap: 12px; padding-top: 18px; border-top: 1px solid rgba(20, 20, 22, 0.08)">
+<div style="display: flex; align-items: center; gap: 12px"><span style="display: flex; flex-direction: column"><span style="font-size: 12px; color: #686164">Targets</span><b style="font-size: 22px; font-weight: 600; letter-spacing: -0.02em">2 <span style="font-size: 12px; font-weight: 500; color: #8A5300">· 1 chưa xác nhận</span></b></span></div>
+<div style="display: flex; align-items: center; gap: 12px"><span style="display: flex; flex-direction: column"><span style="font-size: 12px; color: #686164">Lỗ hổng mở</span><b style="font-size: 22px; font-weight: 600; letter-spacing: -0.02em">21 <span style="font-size: 12px; font-weight: 500; color: #B42318">· 3 Critical</span></b></span></div>
+<div style="display: flex; align-items: center; gap: 12px"><span style="display: flex; flex-direction: column"><span style="font-size: 12px; color: #686164">Scan gần nhất</span><b style="font-size: 22px; font-weight: 600; letter-spacing: -0.02em">Hôm nay <span style="font-size: 12px; font-weight: 500; color: #075985">· đang chạy</span></b></span></div>
+<div style="display: flex; align-items: center; gap: 12px"><span style="display: flex; flex-direction: column"><span style="font-size: 12px; color: #686164">Resolved 30 ngày</span><b style="font-size: 22px; font-weight: 600; letter-spacing: -0.02em">6</b></span></div>
 </div>
 </section>
+</div>
 
 <div role="tablist" aria-label="Nội dung project" style="display: flex; flex-wrap: wrap; gap: 4px; border-bottom: 1px solid #E6E4E5">
 <button type="button" role="tab" aria-selected="false" style="min-height: 42px; padding: 0 14px; border: none; background: none; font: inherit; font-size: 14px; color: #686164">Tổng quan</button>
